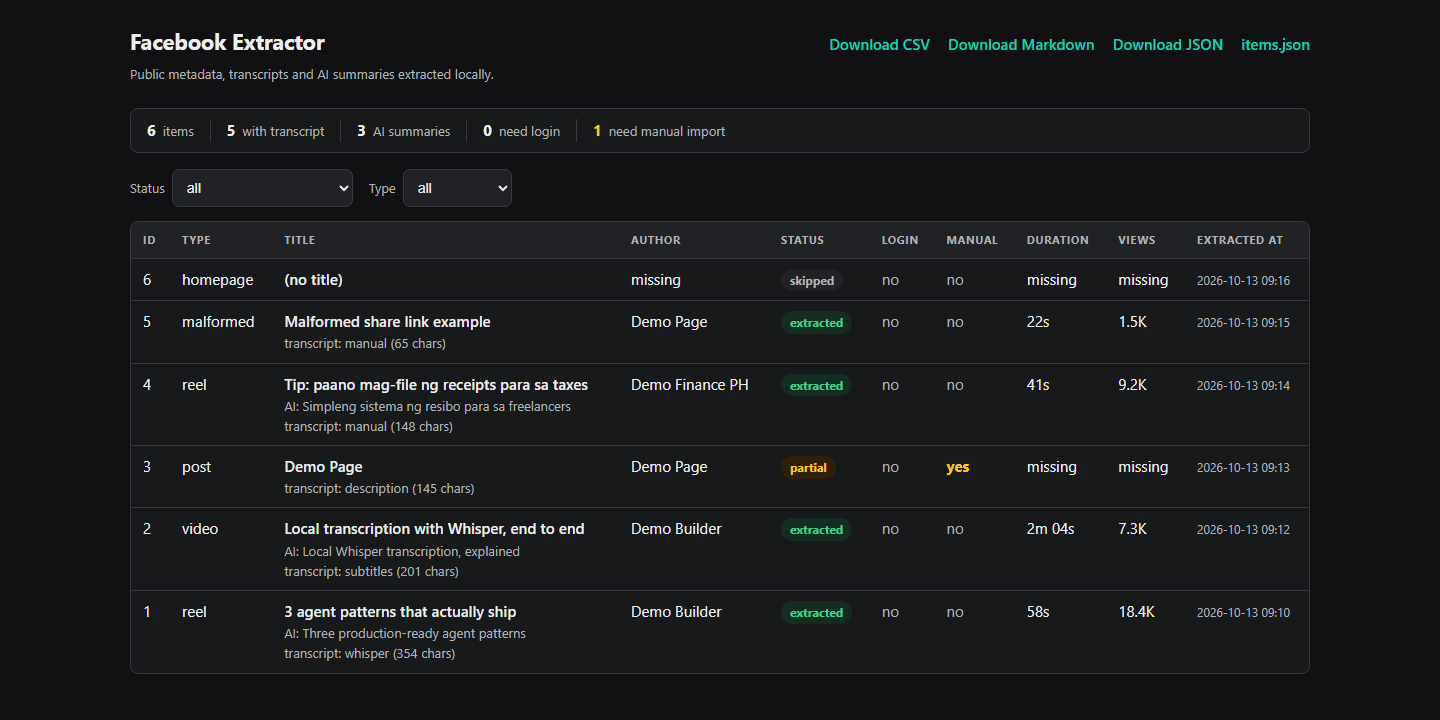
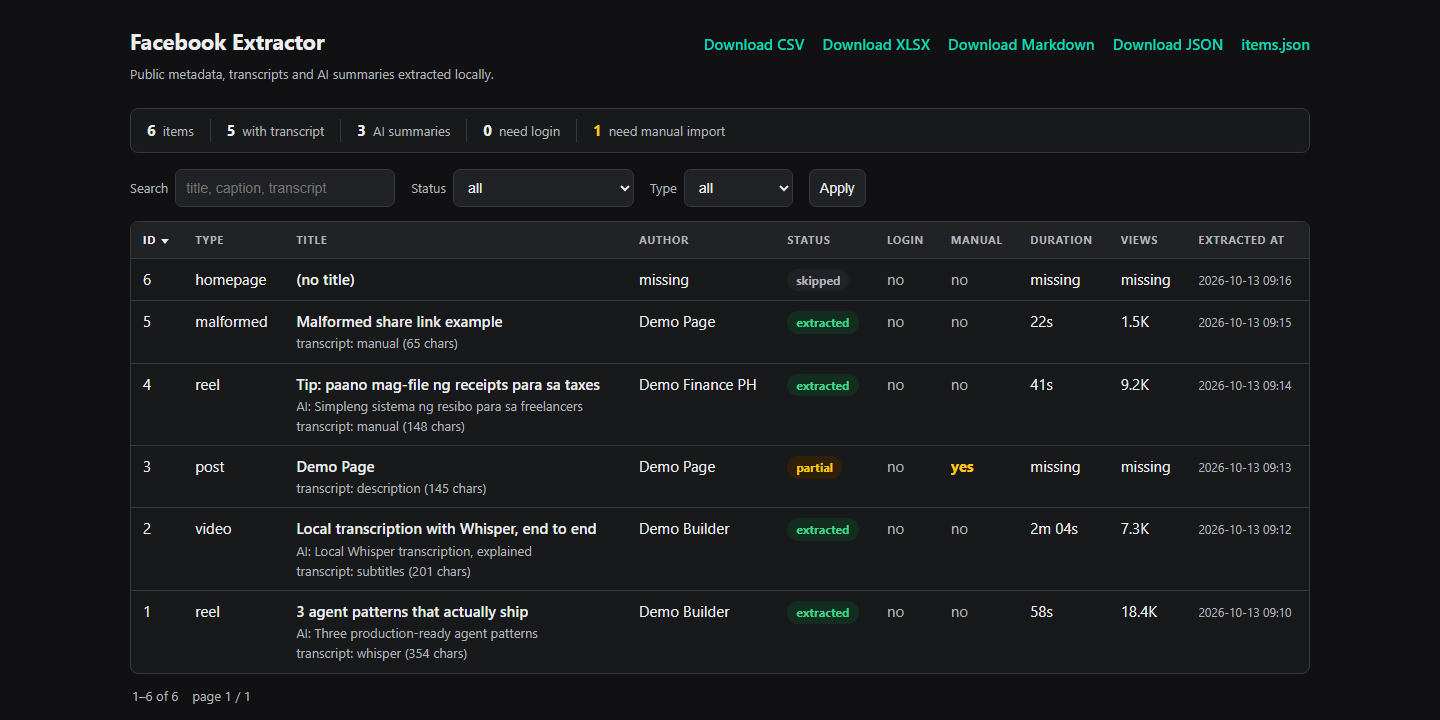
docs: v1.1.0 changelog, roadmap, README features/screenshots, ship plan

diff --git a/README.md b/README.md
@@ -9,7 +9,7 @@
 
 [![License: MIT](https://img.shields.io/badge/license-MIT-3dd68c?style=flat-square)](LICENSE)
 [![Python 3.11+](https://img.shields.io/badge/python-3.11%2B-0bd8b6?style=flat-square)](pyproject.toml)
-[![Tests: 199 checks](https://img.shields.io/badge/tests-199%20offline%20checks-3dd68c?style=flat-square)](#quality)
+[![Tests: 242 checks](https://img.shields.io/badge/tests-242%20offline%20checks-3dd68c?style=flat-square)](#quality)
 [![Lint: ruff · mypy strict](https://img.shields.io/badge/lint-ruff%20%C2%B7%20mypy%20strict-38bdf8?style=flat-square)](#quality)
 [![CI](https://github.com/jemimahbalintay-netizen/facebook-extractor/actions/workflows/ci.yml/badge.svg)](https://github.com/jemimahbalintay-netizen/facebook-extractor/actions/workflows/ci.yml)
 
@@ -36,11 +36,13 @@ A personal archiving and analysis tool for **publicly accessible** Facebook cont
 | 🔎 **URL intelligence** | Classifies `post` / `reel` / `video` / `homepage` / `malformed`, repairs duplicated share paths, tries both candidates |
 | 🎬 **Video & reel extraction** | yt-dlp under the hood: title, author, duration, views/likes/comments/shares, upload date, thumbnail, embedded subtitles |
 | 📝 **Transcript priority** | embedded subtitles → local Whisper (`faster-whisper`) → caption fallback → manual import; junk/hallucinated captions are discarded automatically |
+| 🔍 **Full-text search** | SQLite FTS5 index over titles, captions and transcripts — `main.py search "term"` with highlighted snippets, dashboard search box, `/items.json?q=` |
+| 🔁 **Resilient re-runs** | content hashes detect stale summaries (`summarize --stale`), failed URLs retry in one command (`ingest --retry-failed`), cron-safe batches (`ingest --skip-existing`) |
 | 🤖 **Bilingual AI summaries** | DeepSeek V4.1 Flash (NVIDIA NIM ready): English + Filipino summaries, key points, entities, sentiment, warnings; map-reduce for long transcripts |
 | 🗄 **Local storage** | SQLite (WAL) + append-only JSONL + verified backups (`scripts/backup_db.py`, SQLite backup API) |
-| 📊 **Zero-JS dashboard** | FastAPI + server-rendered Jinja2, strict CSP, no scripts, accessible dark UI (contrast machine-checked) |
-| 📤 **Exports** | CSV (formula-injection guarded), Markdown report grouped by type, full JSON dump |
-| 🛡 **Production habits** | 199 offline checks, ruff + strict mypy, pre-commit, pip-audit, secret-safe layout, restore drills |
+| 📊 **Zero-JS dashboard** | FastAPI + server-rendered Jinja2 with search, sortable columns and pagination; strict CSP, no scripts, accessible dark UI (contrast machine-checked) |
+| 📤 **Exports** | CSV, XLSX (items + summaries sheets) and JSON — all formula-injection guarded — plus a grouped Markdown report |
+| 🛡 **Production habits** | 242 offline checks, ruff + strict mypy, pre-commit, pip-audit, secret-safe layout, restore drills, CI on Linux + Windows |
 
 ## Screenshots
 
@@ -101,11 +103,15 @@ Exact pins of the verified environment ship in `requirements-lock.txt` if you wa
 | `python main.py ingest --url URL` | one URL (repeatable) |
 | `python main.py ingest --all --transcribe` | also transcribe videos that lack subtitles (local Whisper) |
 | `python main.py ingest --all --summarize` | also generate AI summaries |
+| `python main.py ingest --retry-failed` | re-process URLs whose last extraction failed |
+| `python main.py ingest --all --skip-existing` | only new and failed URLs (ideal for scheduled runs) |
 | `python main.py summarize` | summarize stored items without re-fetching (`--all` re-does everything) |
+| `python main.py summarize --stale` | re-summarize only items whose content changed since their summary |
+| `python main.py search "term"` | full-text search across titles, captions and transcripts (`--json` supported) |
 | `python main.py manual-import --url URL --text-file caption.txt` | paste content Facebook wouldn't serve publicly |
-| `python main.py export --format csv\|markdown\|json\|all` | write `data/export_items.csv`, `data/report.md`, `data/export_items.json` |
+| `python main.py export --format csv\|xlsx\|markdown\|json\|all` | write exports into `data/` |
 | `python main.py status` | totals, flags, tool availability, latest items |
-| `python main.py serve` | local dashboard |
+| `python main.py serve` | local dashboard (search, sort, pagination built in) |
 | `python scripts/backup_db.py` | WAL-safe verified backup (keeps the newest 10) |
 
 ## Dashboard
@@ -141,8 +147,8 @@ Everything lives in `.env` (see `.env.example`); the interesting ones:
 
 ## Quality
 
-- **199 offline checks**: 90 unit (parsers/mapping), 54 audit (pipeline, security, data integrity), 55 dashboard (renders, headers, contrast) — all runnable without network or real data.
-- **Static analysis**: `ruff` 0 findings (documented ignores with rationale), `mypy` strict 0 errors across 30 files, `vulture` clean.
+- **242 offline checks**: 93 unit (parsers/mapping/hashing), 83 audit (pipeline, search, security, data integrity), 66 dashboard (renders, headers, contrast, search/sort/pagination) — all runnable without network or real data.
+- **Static analysis**: `ruff` 0 findings (documented ignores with rationale), `mypy` strict 0 errors across 32 files, `vulture` clean.
 - **Supply chain**: `pip-audit` clean, `pip check` clean, exact-pin lockfile, pre-commit hooks (tag-pinned).
 
 ```powershell
@@ -167,7 +173,8 @@ See [`docs/AUDIT.md`](docs/AUDIT.md) and [`docs/RESEARCH.md`](docs/RESEARCH.md) 
 | Document | Contents |
 |---|---|
 | [`docs/SHIP_PLAN.md`](docs/SHIP_PLAN.md) | 20-item pre-ship gate, rollback, release steps |
-| [`docs/AUDIT.md`](docs/AUDIT.md) | 3 audit rounds: findings, fixes, verified-safe areas, accepted risks |
+| [`docs/ROADMAP.md`](docs/ROADMAP.md) | what shipped, what's next (v1.2 / v2.0), explicit non-goals |
+| [`docs/AUDIT.md`](docs/AUDIT.md) | 4 audit rounds: findings, fixes, verified-safe areas, accepted risks |
 | [`docs/TROUBLESHOOTING.md`](docs/TROUBLESHOOTING.md) | login walls, ffmpeg, whisper quality, API errors |
 | [`docs/RESEARCH.md`](docs/RESEARCH.md) | yt-dlp/Meta/NIM/Whisper facts with primary sources |
 | [`docs/ANTI_SLOP_RESEARCH.md`](docs/ANTI_SLOP_RESEARCH.md) | AI-slop failure classes and the pre-ship gate rationale |

diff --git a/docs/ROADMAP.md b/docs/ROADMAP.md
@@ -1,0 +1,49 @@
+# Roadmap
+
+Direction for facebook-extractor after v1.1.0. Priorities reflect "local-first,
+public-only, no surprises": every new capability must keep the archive private,
+the dashboard script-free, and the extraction stance unchanged (no login-wall
+bypass, no scraping of private content).
+
+## Shipped
+
+- **v1.0.0** — extraction pipeline (classifier, yt-dlp, link-preview posts,
+  local Whisper, manual import), bilingual AI summaries, SQLite + JSONL,
+  CSV/Markdown/JSON exports, zero-JS dashboard, 199 offline checks.
+- **v1.1.0** — full-text search (FTS5) in CLI and dashboard, sortable columns +
+  pagination, XLSX export, stale-summary detection (`summarize --stale`),
+  ingestion backlog flags (`--retry-failed`, `--skip-existing`), CI on
+  Python 3.14 + Windows, 242 offline checks.
+
+## Next (v1.2)
+
+| Item | Why | Notes |
+| --- | --- | --- |
+| Whisper model bake-off → new default | `small` is the accuracy weak spot; community guidance favours `large-v3-turbo` on CPU | Measured table committed to docs; `--whisper-model` per-run override; expected ~1.6 GB model download |
+| Recurring runs | `scripts/watch_seed.py` + a `runs` table + Task Scheduler snippet | Uses `ingest --skip-existing` and `--retry-failed` under the hood |
+| Weekly digest | `data/digests/YYYY-WW.md`: new items, top by engagement, topic deltas, leftover manual imports | Optional SMTP email (off by default) |
+| Restore & maintenance UX | `restore --from <backup>`, `vacuum` | Pairs with the existing verified backups |
+| PEP 751 lockfile | `pylock.toml` via uv alongside `requirements-lock.txt` | Modern standard for exact releases |
+
+## Later (v2.0)
+
+| Item | Why | Notes |
+| --- | --- | --- |
+| **Archive MCP server** | Let Claude / OpenCode / Cursor query the local archive (search, items, transcripts, stats) | Official MCP Python SDK v2; stdio transport by default; read-only tools; ingest tool gated behind an explicit flag |
+| **"Ask my archive" (RAG)** | Semantic search + cited answers over everything stored | Local ONNX embeddings (no torch); deepseek synthesises with `[item:ID]` citations; zero-JS answer page |
+| Trends view | Items/week, top authors, topic frequency | Pure SQL aggregates over existing tables |
+
+## Explicit non-goals
+
+- No CAPTCHA solving, login-wall bypass, or private-content access — ever.
+- No cloud sync, accounts, or telemetry; the archive stays on your machine.
+- No JavaScript in the dashboard (the strict CSP is a feature).
+- Multi-platform input (YouTube/Instagram/TikTok via yt-dlp) is **not planned
+  yet** — it would change the tool's scope and documentation; revisit on
+  request.
+
+## Quality bar for everything above
+
+Right-sized tests in the matching suite, CHANGELOG + docs updates, ruff/mypy at
+zero findings, CI green on Linux + Windows, migrations tested against a copy of
+a real v1.x database.

diff --git a/CHANGELOG.md b/CHANGELOG.md
@@ -4,6 +4,47 @@ All notable changes to this project are documented here.
 The format follows [Keep a Changelog](https://keepachangelog.com/en/1.1.0/)
 and this project adheres to [Semantic Versioning](https://semver.org/).
 
+## [1.1.0] — 2026-10-13
+
+### Added
+
+- **Full-text search** — SQLite FTS5 index over titles, captions and transcripts
+  (external-content table kept in sync by triggers, `unicode61` tokenizer with
+  diacritic folding):
+  - `python main.py search "term" [--status S] [--type T] [--json]` with
+    relevance (bm25) ranking and highlighted snippets;
+  - dashboard search box and `?q=` support on `/` and `/items.json`;
+  - safe query handling — user input is always quoted (FTS operators and stray
+    punctuation cannot break the query).
+- **Dashboard: sorting and pagination** — sortable column headers with
+  `aria-sort` and a drawn (non-glyph) direction indicator, page-size support,
+  range counter ("1–50 of N") and previous/next links; still zero-JS.
+- **XLSX export** (`export --format xlsx`, `/export/xlsx`) — two sheets
+  (Items + Summaries), frozen headers, sized columns, formula-injection guard.
+- **Stale-summary detection** — `content_hash` per item plus `summarized_hash`
+  written with each summary; `python main.py summarize --stale` re-summarizes
+  only items whose content changed.
+- **Ingestion backlog flags** — `ingest --retry-failed [--include …]`
+  re-processes `needs_login` / `needs_manual_import` / `failed` URLs, and
+  `ingest --skip-existing` makes scheduled runs process only new and failed URLs.
+- **CI**: Python 3.14 added to the Linux matrix and a dedicated Windows job.
+
+### Fixed
+
+- **Search index upgrades** — pre-search databases now rebuild the FTS index
+  automatically on first use. The rebuild is detected via the
+  `items_fts_docsize` shadow table (a plain `COUNT(*)` on an external-content
+  FTS table reports content rows, not indexed rows) and runs inside the same
+  init pass — closing the window where update triggers could issue FTS5
+  `delete` commands for never-indexed values and corrupt the index.
+
+### Changed
+
+- Test suite: 199 → **242** offline checks (unit 93, audit 83, dashboard 66).
+- `openpyxl` added as a core dependency.
+
+[1.1.0]: https://github.com/jemimahbalintay-netizen/facebook-extractor/releases/tag/v1.1.0
+
 ## [1.0.0] — 2026-10-13
 
 First public release.

diff --git a/docs/SHIP_PLAN.md b/docs/SHIP_PLAN.md
@@ -1,4 +1,4 @@
-# Ship Plan — facebook-extractor v1.0 (local tool)
+# Ship Plan — facebook-extractor v1.1 (local tool)
 
 **Date:** 2026-10-13 · **Status:** feature-complete; audits complete; automated pre-ship
 gates green. Remaining items are release mechanics that need your decision (git/GitHub)
@@ -24,8 +24,8 @@ AI-slop/vibe-coding failure modes); the audit evidence lives in `docs/AUDIT.md`
 | --- | --- |
 | Items / summaries / transcript segments | 27 / 26 / 211 |
 | Needs manual import (truncated posts) | 7 (awaiting your paste) |
-| Offline checks | 199 (90 unit + 54 audit + 55 dashboard) |
-| Static analysis | ruff 0 · mypy 0 strict (29 files) · vulture 0 app hits |
+| Offline checks | 242 (93 unit + 83 audit + 66 dashboard) |
+| Static analysis | ruff 0 · mypy 0 strict (32 files) · vulture 0 app hits |
 | Dependencies | `pip-audit` clean · `pip check` clean · `requirements-lock.txt` (74 pins) |
 | DB | `PRAGMA integrity_check` ok · FK check clean · backup verified + restore drill passed |
 
@@ -33,7 +33,7 @@ AI-slop/vibe-coding failure modes); the audit evidence lives in `docs/AUDIT.md`
 
 | # | Item | How to verify | Status |
 | --- | --- | --- | --- |
-| 1 | Tests pass | `python tests\unit_tests.py` + `tests\audit_suite.py` + `tests\dashboard_tests.py` all exit 0 (199 checks) | ✅ |
+| 1 | Tests pass | `python tests\unit_tests.py` + `tests\audit_suite.py` + `tests\dashboard_tests.py` all exit 0 (242 checks) | ✅ |
 | 2 | Failure paths tested | bad URLs, malformed repair, HTTP 429/5xx/Retry-After, network errors, missing API key, invalid JSON, 404s | ✅ |
 | 3 | Lint clean | `python -m ruff check .` → 0; enforced by `.pre-commit-config.yaml` (tag-pinned) | ✅ |
 | 4 | Types clean | `python -m mypy .` → 0 errors in 29 files, strict (`disallow_untyped_defs`) | ✅ |
